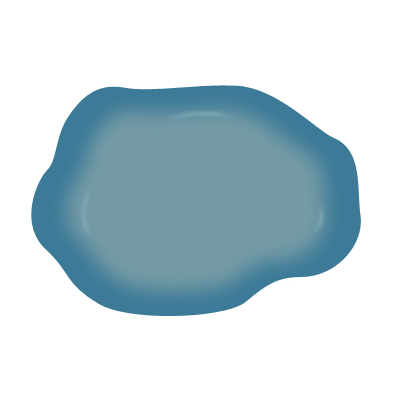
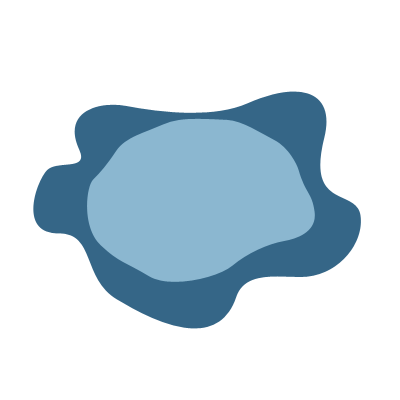
change tide graphics

diff --git a/js/ShipCaptainGame.js b/js/ShipCaptainGame.js
@@ -179,15 +179,15 @@ var Particles = function() {
 		return splinter;
 	}
 
-	particles.Bubble = function() {
+	particles.Bubble = function(fast) {
 		var _floatVariance = 100;
 		var bubble = new createjs.Shape();
 		
-		bubble.graphics.beginFill('#639ebe');
-		bubble.graphics.drawCircle(-5,-5,10);
+		bubble.graphics.beginFill('#8bb7d0');
+		bubble.graphics.drawCircle(-3,-3,6);
 		bubble.graphics.endFill();
 	
-		bubble.scaleX = bubble.scaleY = .1;
+		
 		function pop() {
 			bubble.parent.removeChild(bubble);
 		}
@@ -195,17 +195,22 @@ var Particles = function() {
 		bubble.animate = function() {
 			var floatX = Utils.getRandomFloat(-_floatVariance,_floatVariance)+bubble.x;
 			var floatY = Utils.getRandomFloat(-_floatVariance,_floatVariance)+bubble.y;
-			var scale = Utils.getRandomFloat(.5,2);
-		
+			var scale = Utils.getRandomFloat(.1,1);
+			bubble.scaleX = bubble.scaleY = scale;
+			
+			var speed = (fast) ? 2000:4000;
+			var easeType = (fast) ? createjs.Ease.expoOut:createjs.Ease.sineOut;
 			createjs.Tween.get(bubble,{loop:false})
-				.set({scaleX:0.1,scaleY:0.1}, bubble)
 				.to({
 					x: floatX,
-					y: floatY,
-					scaleX: scale,
-					scaleY: scale,
-					alpha: 0
-				},3000,createjs.Ease.easeOut)
+					y: floatY
+				},speed,easeType);
+
+			createjs.Tween.get(bubble,{loop:false})
+				.to({
+					scaleX: 0,
+					scaleY: 0
+				},speed,createjs.Ease.easeIn)
 				.call(pop);
 		}
 		return bubble;
@@ -580,13 +585,6 @@ var Ocean = function(width, height){
 	//Constants
 	var MAX_TIDE_SPEED = 10;
 
-	var _tideTopX = .1;
-	var _tideTopY = .2;
-	var _tideMidX = 0;
-	var _tideMidY = -.1;
-	var _tideBotX = -.2;
-	var _tideBotY = .2;
-
 	var ocean = new createjs.Container();
 	ocean.width = width;
 	ocean.height = height;
@@ -594,37 +592,18 @@ var Ocean = function(width, height){
 
 	var crossWidth = width*3 + height*3;
 
-	var tideTop = new createjs.Shape();
-	var tideMid = new createjs.Shape();
-	var tideBot = new createjs.Shape();
+	var tide = new createjs.Shape();
 	
-	tideTop.graphics.beginBitmapFill(Game.assets['tide_top']);
-	tideTop.graphics.drawRect(-crossWidth, -crossWidth, crossWidth*2, crossWidth*2);
-
-	tideMid.graphics.beginBitmapFill(Game.assets['tide_mid']);
-	tideMid.graphics.drawRect(-crossWidth, -crossWidth, crossWidth*2, crossWidth*2);
-
-	tideBot.graphics.beginBitmapFill(Game.assets['tide_bot']);
-	tideBot.graphics.drawRect(-crossWidth, -crossWidth, crossWidth*2, crossWidth*2);
+	tide.graphics.beginBitmapFill(Game.assets['tide']);
+	tide.graphics.drawRect(-crossWidth, -crossWidth, crossWidth*2, crossWidth*2);
 
 	var underwater = new createjs.Container();
 
-	ocean.addChild(underwater, tideBot, tideMid, tideTop);
+	ocean.addChild(underwater, tide);
 
 	function moveTide() {
-		_tideTopX += _tideTopX;
-		_tideTopY += _tideTopY;
-		_tideMidX += _tideMidX;
-		_tideMidY += _tideMidY;
-		_tideBotX += _tideBotX;
-		_tideBotY += _tideBotY;
-
-		tideTop.x = (ocean.position.x) % 400;
-		tideTop.y = (ocean.position.y) % 400;
-		tideMid.x = (ocean.position.x*.8) % 400;
-		tideMid.y = (ocean.position.y*.8) % 400;
-		tideBot.x = (ocean.position.x*.6) % 400;
-		tideBot.y = (ocean.position.y*.6) % 400;
+		tide.x = (ocean.position.x) % 400;
+		tide.y = (ocean.position.y) % 400;
 	}
 
 	ocean.spawnBubble = function() {
@@ -1832,7 +1811,7 @@ var Projectile = function(size, angle, owner) {
 
 	function miss() {
 		for (var i = 0; i < 30; i++) {
-			var bubble = new Particles.Bubble();
+			var bubble = new Particles.Bubble(true);
 			bubble.x = cannonBall.x;
 			bubble.y = cannonBall.y;
 			cannonBall.parent.addChild(bubble);
@@ -1919,9 +1898,7 @@ var Game = (function(){
 			{src:"sounds/small_explosion.mp3", id:"small_explosion", data:soundInstanceLimit},
 			{src:"sounds/wood_crack.mp3", id:"hit", data:soundInstanceLimit},
 			{src:"sounds/water.mp3", id:"water"},
-			{src:"images/tide_top.png", id:"tide_top"},
-			{src:"images/tide_mid.png", id:"tide_mid"},
-			{src:"images/tide_bot.png", id:"tide_bot"}
+			{src:"images/tide.png", id:"tide"}
 		];
 
 		preloader = new createjs.LoadQueue(false);

diff --git a/js/src/Ocean.js b/js/src/Ocean.js
@@ -2,13 +2,6 @@ var Ocean = function(width, height){
 	//Constants
 	var MAX_TIDE_SPEED = 10;
 
-	var _tideTopX = .1;
-	var _tideTopY = .2;
-	var _tideMidX = 0;
-	var _tideMidY = -.1;
-	var _tideBotX = -.2;
-	var _tideBotY = .2;
-
 	var ocean = new createjs.Container();
 	ocean.width = width;
 	ocean.height = height;
@@ -16,37 +9,18 @@ var Ocean = function(width, height){
 
 	var crossWidth = width*3 + height*3;
 
-	var tideTop = new createjs.Shape();
-	var tideMid = new createjs.Shape();
-	var tideBot = new createjs.Shape();
+	var tide = new createjs.Shape();
 	
-	tideTop.graphics.beginBitmapFill(Game.assets['tide_top']);
-	tideTop.graphics.drawRect(-crossWidth, -crossWidth, crossWidth*2, crossWidth*2);
-
-	tideMid.graphics.beginBitmapFill(Game.assets['tide_mid']);
-	tideMid.graphics.drawRect(-crossWidth, -crossWidth, crossWidth*2, crossWidth*2);
-
-	tideBot.graphics.beginBitmapFill(Game.assets['tide_bot']);
-	tideBot.graphics.drawRect(-crossWidth, -crossWidth, crossWidth*2, crossWidth*2);
+	tide.graphics.beginBitmapFill(Game.assets['tide']);
+	tide.graphics.drawRect(-crossWidth, -crossWidth, crossWidth*2, crossWidth*2);
 
 	var underwater = new createjs.Container();
 
-	ocean.addChild(underwater, tideBot, tideMid, tideTop);
+	ocean.addChild(underwater, tide);
 
 	function moveTide() {
-		_tideTopX += _tideTopX;
-		_tideTopY += _tideTopY;
-		_tideMidX += _tideMidX;
-		_tideMidY += _tideMidY;
-		_tideBotX += _tideBotX;
-		_tideBotY += _tideBotY;
-
-		tideTop.x = (ocean.position.x) % 400;
-		tideTop.y = (ocean.position.y) % 400;
-		tideMid.x = (ocean.position.x*.8) % 400;
-		tideMid.y = (ocean.position.y*.8) % 400;
-		tideBot.x = (ocean.position.x*.6) % 400;
-		tideBot.y = (ocean.position.y*.6) % 400;
+		tide.x = (ocean.position.x) % 400;
+		tide.y = (ocean.position.y) % 400;
 	}
 
 	ocean.spawnBubble = function() {

diff --git a/js/src/Particles.js b/js/src/Particles.js
@@ -89,15 +89,15 @@ var Particles = function() {
 		return splinter;
 	}
 
-	particles.Bubble = function() {
+	particles.Bubble = function(fast) {
 		var _floatVariance = 100;
 		var bubble = new createjs.Shape();
 		
-		bubble.graphics.beginFill('#639ebe');
-		bubble.graphics.drawCircle(-5,-5,10);
+		bubble.graphics.beginFill('#8bb7d0');
+		bubble.graphics.drawCircle(-3,-3,6);
 		bubble.graphics.endFill();
 	
-		bubble.scaleX = bubble.scaleY = .1;
+		
 		function pop() {
 			bubble.parent.removeChild(bubble);
 		}
@@ -105,17 +105,22 @@ var Particles = function() {
 		bubble.animate = function() {
 			var floatX = Utils.getRandomFloat(-_floatVariance,_floatVariance)+bubble.x;
 			var floatY = Utils.getRandomFloat(-_floatVariance,_floatVariance)+bubble.y;
-			var scale = Utils.getRandomFloat(.5,2);
-		
+			var scale = Utils.getRandomFloat(.1,1);
+			bubble.scaleX = bubble.scaleY = scale;
+			
+			var speed = (fast) ? 2000:4000;
+			var easeType = (fast) ? createjs.Ease.expoOut:createjs.Ease.sineOut;
 			createjs.Tween.get(bubble,{loop:false})
-				.set({scaleX:0.1,scaleY:0.1}, bubble)
 				.to({
 					x: floatX,
-					y: floatY,
-					scaleX: scale,
-					scaleY: scale,
-					alpha: 0
-				},3000,createjs.Ease.easeOut)
+					y: floatY
+				},speed,easeType);
+
+			createjs.Tween.get(bubble,{loop:false})
+				.to({
+					scaleX: 0,
+					scaleY: 0
+				},speed,createjs.Ease.easeIn)
 				.call(pop);
 		}
 		return bubble;

diff --git a/js/src/Game.js b/js/src/Game.js
@@ -63,9 +63,7 @@ var Game = (function(){
 			{src:"sounds/small_explosion.mp3", id:"small_explosion", data:soundInstanceLimit},
 			{src:"sounds/wood_crack.mp3", id:"hit", data:soundInstanceLimit},
 			{src:"sounds/water.mp3", id:"water"},
-			{src:"images/tide_top.png", id:"tide_top"},
-			{src:"images/tide_mid.png", id:"tide_mid"},
-			{src:"images/tide_bot.png", id:"tide_bot"}
+			{src:"images/tide.png", id:"tide"}
 		];
 
 		preloader = new createjs.LoadQueue(false);

diff --git a/js/src/boats/guns/Gun.js b/js/src/boats/guns/Gun.js
@@ -128,7 +128,7 @@ var Projectile = function(size, angle, owner) {
 
 	function miss() {
 		for (var i = 0; i < 30; i++) {
-			var bubble = new Particles.Bubble();
+			var bubble = new Particles.Bubble(true);
 			bubble.x = cannonBall.x;
 			bubble.y = cannonBall.y;
 			cannonBall.parent.addChild(bubble);
